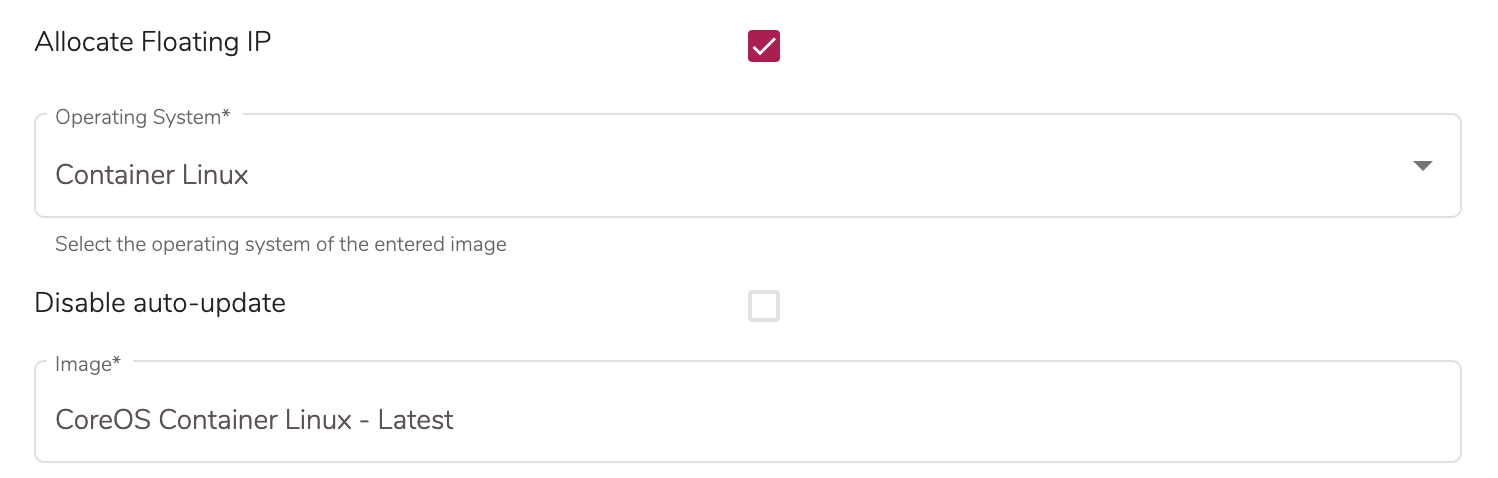
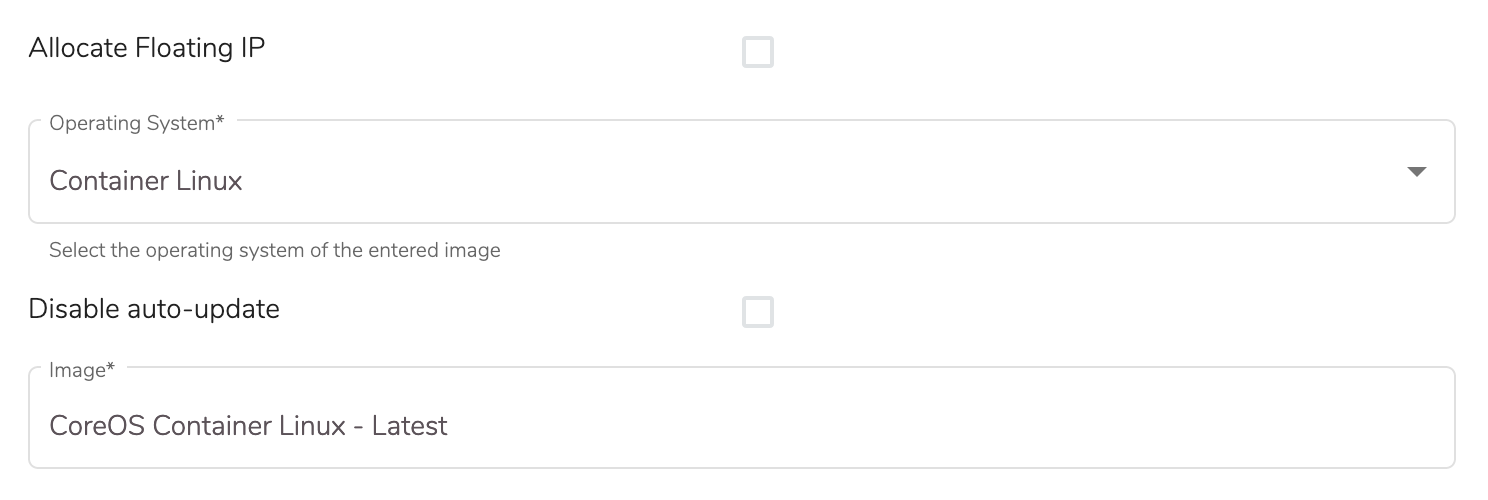
removed floating ip from docs

diff --git a/02.Guides/01.CreatingACluster/default.de.md b/02.Guides/01.CreatingACluster/default.de.md
@@ -78,10 +78,9 @@ wir den Namensgenerator. Die Anzahl und Größe der Server belassen wir auf den
 Standardwerten.
 ![Add Cluster Step 4](add_step4.png)
 
-Um später per SSH auf die Instanzen zuzugreifen, wählen wir Allocate Floating IP
-aus. Als Image entscheiden wir uns für Container Linux. Container Linux ist
-speziell für den Betrieb von Containern gedacht und wird durch iMKe automatisch
-aktualisiert.
+Als Image entscheiden wir uns für Container Linux. Container Linux ist
+speziell für den Betrieb von Containern gedacht und wird durch iMKe 
+automatisch aktualisiert.
 ![Add Cluster Step 5](add_step5.png)
 
 Für den SSH Zugriff müssen wir unseren Schlüssel hinterlegen. Dafür klicken wir auf
